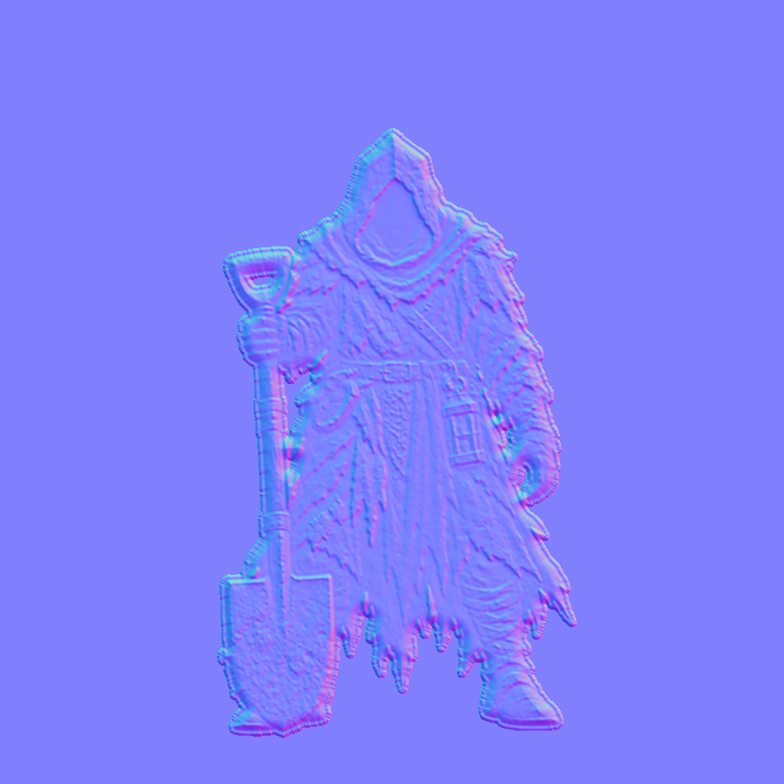
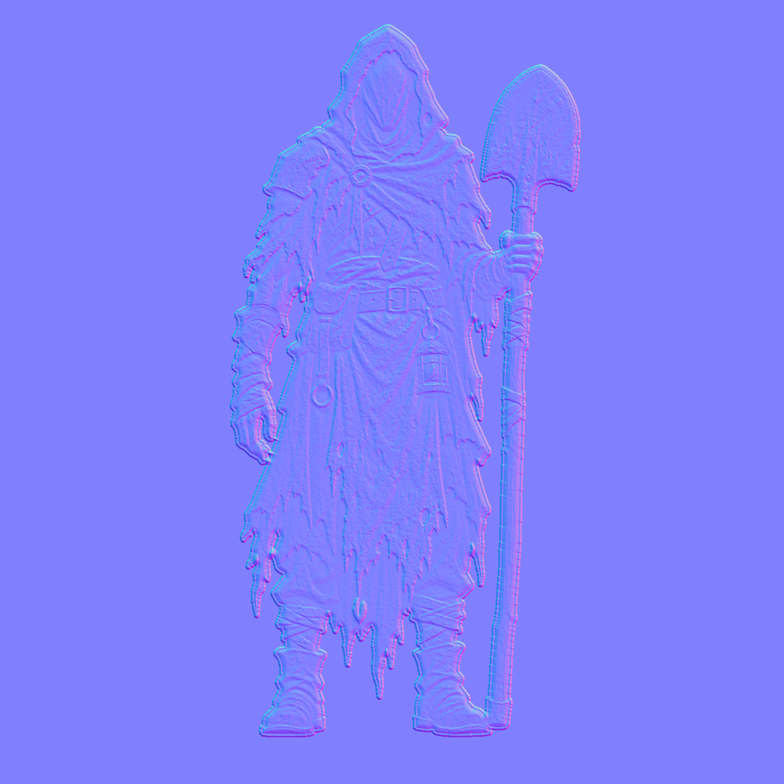
Fossoyeur sans visage (M02) remplacé : cinq nouvelles images, liseré uniforme de 5 px
Claude-Session: https://claude.ai/code/session_016J9VLX1fiPLFcAPYid8ZLe

diff --git a/docs/TECHNIQUE.md b/docs/TECHNIQUE.md
@@ -534,3 +534,4 @@ Après TripoSR, `Converter._bake_command` copie `res://tools_py/bake_texture.py`
 - `make_monster.py --liseré-uniforme[=N]` : les cinq images de ChatGPT arrivent avec un liseré d'épaisseur inégale (de 2 à 6,5 px selon l'image, franges rouges/jaunes sur les pixels semi-transparents, absent par endroits). L'option retire le liseré d'origine (blanc relié au vide + bande de 2 px du bord) puis trace un liseré blanc pur de N px (5 par défaut) autour du dessin et dans les trous du tissu, APRÈS la mise à l'échelle des poses : même épaisseur sur les cinq.
 - Netteté des monstres Atlas Noir en jeu (2026-10-31) : à 1440p le sprite s'affiche 2,5 à 3 fois plus petit que son image ; les mipmaps de Godot (filtre boîte) le rendaient flou (netteté mesurée ≈ 50 % d'une vraie réduction sur le banc d'essai `tools/sprite_lab.gd`, ≈ 21 % en jeu). Des mipmaps recalculées en Lanczos n'y changent rien ; le biais de mipmap de la vue 3D est ignoré par le moteur Compatibilité. Remède : `AtlasSpriteMaterial` (shader, mêmes propriétés que le StandardMaterial3D : billboard, alpha, éclairage par pixel, auto-éclairage, normales, liseré de lumière) avec `texture(tex, uv, -1.0)`. Éclairage identique à l'ancien (luminance et couleur moyennes mesurées), netteté en jeu ×1,8 (0,21 → 0,37 de l'idéal à l'échelle de rendu 1,25 ; 0,24 → 0,6 à l'échelle 1,0). Interrupteur de comparaison `EntityLayer.atlas_shader`, biais `AtlasSpriteMaterial.lod_bias` (-1,0 ; en deçà de -0,75 le crépitement peut apparaître en mouvement). Constat : l'échelle de rendu 3D de 1,25 (suréchantillonnage) adoucit les sprites par rapport à 1,0.
 - Taille d'affichage et adaptation à l'écran (2026-10-31) : la Veuve (736 px affichée sur 616 px, réduction ×1,2) paraissait plus nette que M01 (1728 px sur 531 px, ×3,3). Deux remèdes : (1) `veilleur_m01` passe à 1,7 dans `MON_HEIGHTS` (≈ 1,9 m, comme la Veuve) ; (2) `EntityLayer._fit_texture` réduit chaque image Atlas UNE fois, au chargement, en Lanczos, à `FIT_MARGIN` (1,15) × sa taille d'affichage à une case de distance sur l'écran du joueur (`FIT_FRAC` = 0,189 hauteur d'écran par mètre de monde, mesuré en 1440p sur trois monstres), jamais agrandie. Mesuré : carré de M01 affiché sur 451 / 602 / 902 px à 1080p / 1440p / 2160p pour des textures de 519 / 692 / 1038 px (réduction ×1,15 partout). Coût : ≈ 95 ms par image, d'où `warm_poses` (toutes les poses construites à la création du sprite, pas à la première attaque). Mémoire vidéo de M01 à 1440p : ≈ 6 fois moindre. Gain de netteté en image fixe modeste (erreur moyenne vs réduction idéale 5,79 contre 6,08 sans adaptation ; la mesure par variance du laplacien, elle, baisse, car l'ancienne version crépitait) : l'essentiel du gain vient de la taille à l'écran et du biais de mipmap. Interrupteurs des outils de capture : `fit=0`, `fit=<hauteur d'écran>`. La netteté tient surtout au dessin (traits épais, tête grande, peu de micro-texture) : à demander dans le prompt.
+- Fossoyeur sans visage M02 (`mon_fossoyeur`, 2026-10-31) : remplacé par cinq nouvelles images (1024×1536, nouveau prompt), importées avec `--liseré-uniforme=5` (liseré blanc de 5 px sur les cinq poses). Carré de 1568 px, pose d'attente haute de 1425 px (0,909) ; la pose « attaque alternative » est remise à l'échelle (×0,958). Ligne `fossoyeur` de `MON_HEIGHTS` : 1,5 (≈ 1,77 m, comme l'ancien) ; buste `[0.492, 0.16, 0.13]`. Résistances et effets inchangés.
